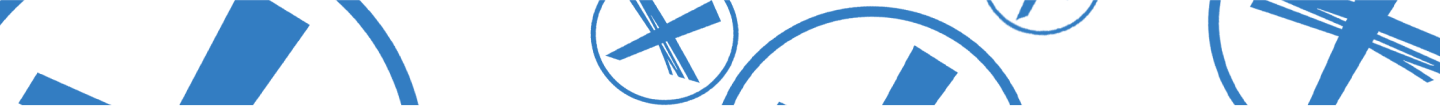
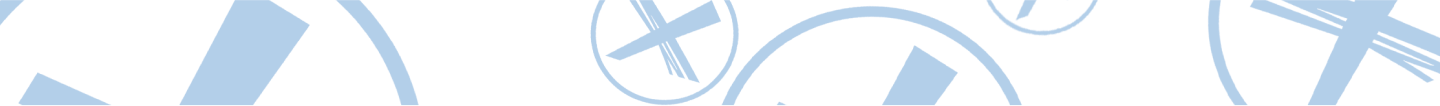
header opacity changed

diff --git a/src/components/First.js b/src/components/First.js
@@ -1,5 +1,6 @@
 import './First.css';
-import { Select, Tabs, Segmented } from 'antd';
+import { Select, Alert, Tabs, Segmented } from 'antd';
+import { useState } from 'react';
 import Chartt from './Chartt';
 import btc from '../assets/BTC.png'
 import ada from '../assets/ADA.png'
@@ -7,14 +8,28 @@ import algo from '../assets/ALGO.png'
 import enj from '../assets/ENJ.png'
 const { Option, OptGroup } = Select;
 const First = () => {
+    const [value, setValue] = useState(null);
+    const [value2, setValue2] = useState(null);
     const handleChange = (value) => {
         console.log(`selected ${value}`);
+    };
+
+    const onGet = (event) => {
+        console.log("inside function");
+        setValue(event.target.value);
+        if (parseFloat(value) < 0.00184853) {
+            <Alert message="Info Text" type="info" />
+            console.log(value);
+        }
+        else {
+            setValue2(value * 13.3);
+        }
     };
     return (
         <>
             <div class='mx-[185px] inline-flex  mt-16 text-grey '>
                 <span class='w-[700px] border border-grey border-opacity-20 rounded-sm px-5 mr-6 py-7'>
-                    <span class='ml-[403px]  pb-[6px] text-grey'><Segmented options={['Daily', 'Weekly', 'Monthly', 'Yearly']} style={{ tintColor: '#5f5f5f' }} selectedSegmentTintColor='#5f5f5f' /></span>
+                    <span class='ml-[403px]  pb-[6px] text-grey'><Segmented options={['Daily', 'Weekly', 'Monthly', 'Yearly']} style={{ color: '#5f5f5f' }} selectedSegmentTintColor='#5f5f5f' /></span>
                     <span class='py-5'><Chartt /></span>
                 </span>
                 <span class=''>
@@ -23,7 +38,7 @@ const First = () => {
                     <div class='border border-grey border-opacity-20 px-5 pt-9 pb-[68px] mt-6 rounded-sm'>
                         <Tabs defaultActiveKey="1">
                             <Tabs.TabPane tab="Swap" key="1" style={{ color: '#5f5f5f' }}>
-                                <input placeholder='You send' class='py-1 border border-opacity-20 border-grey px-3 pr-9 mt-6' />
+                                <input placeholder='You send' class='py-1 border border-opacity-20 border-grey px-3 pr-9 mt-6' value={value} onChange={onGet} />
                                 <span class='inline-flex ml-4 text-grey'>
                                     <Select
                                         defaultValue='BTC'
@@ -40,7 +55,7 @@ const First = () => {
                                 </span>
                                 <div class='text-blue text-[10px] bg-blue bg-opacity-20 ml-7 mt-0.5 mr-28 rounded-sm py-[1px] px-2 whitespace-pre'>Min amount:                           0.00184853</div>
 
-                                <input placeholder='You get' class='py-1 border border-opacity-20 border-grey px-3 pr-9 my-6 ' />
+                                <input placeholder='You get' class='py-1 border border-opacity-20 border-grey px-3 pr-9 my-6 ' value={value2} />
                                 <span class='inline-flex ml-4'>
                                     <Select
                                         defaultValue='ETH'

diff --git a/src/components/Exhange1.js b/src/components/Exhange1.js
@@ -24,6 +24,7 @@ const Exchange1 = () => {
         console.log("inside function");
         setValue(event.target.value);
         if (parseFloat(value) < 0.00184853) {
+            <Alert message="Info Text" type="info" />
             console.log(value);
         }
         else {

diff --git a/src/components/Exchange.js b/src/components/Exchange.js
@@ -21,6 +21,7 @@ const Exchange = (props) => {
         console.log("inside function");
         setValue(event.target.value);
         if (parseFloat(value) < 50) {
+            <Alert message="Info Text" type="info" />
             console.log(value);
         }
         else {

diff --git a/src/components/Header.js b/src/components/Header.js
@@ -1,6 +1,5 @@
 import logo from '../assets/white.png';
 import poly from '../assets/Polygon.png';
-import Navbar from 'react-bootstrap/Navbar';
 import background from '../assets/bg33.png';
 import './Header.css';
 
